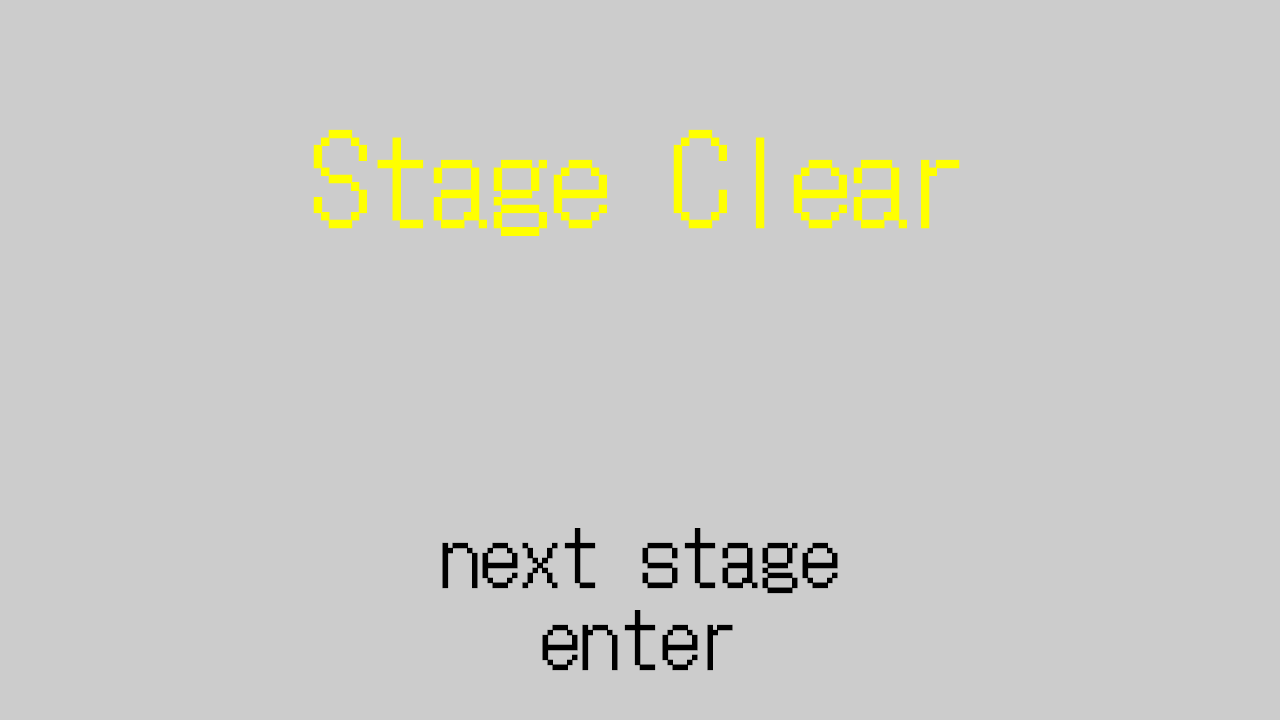
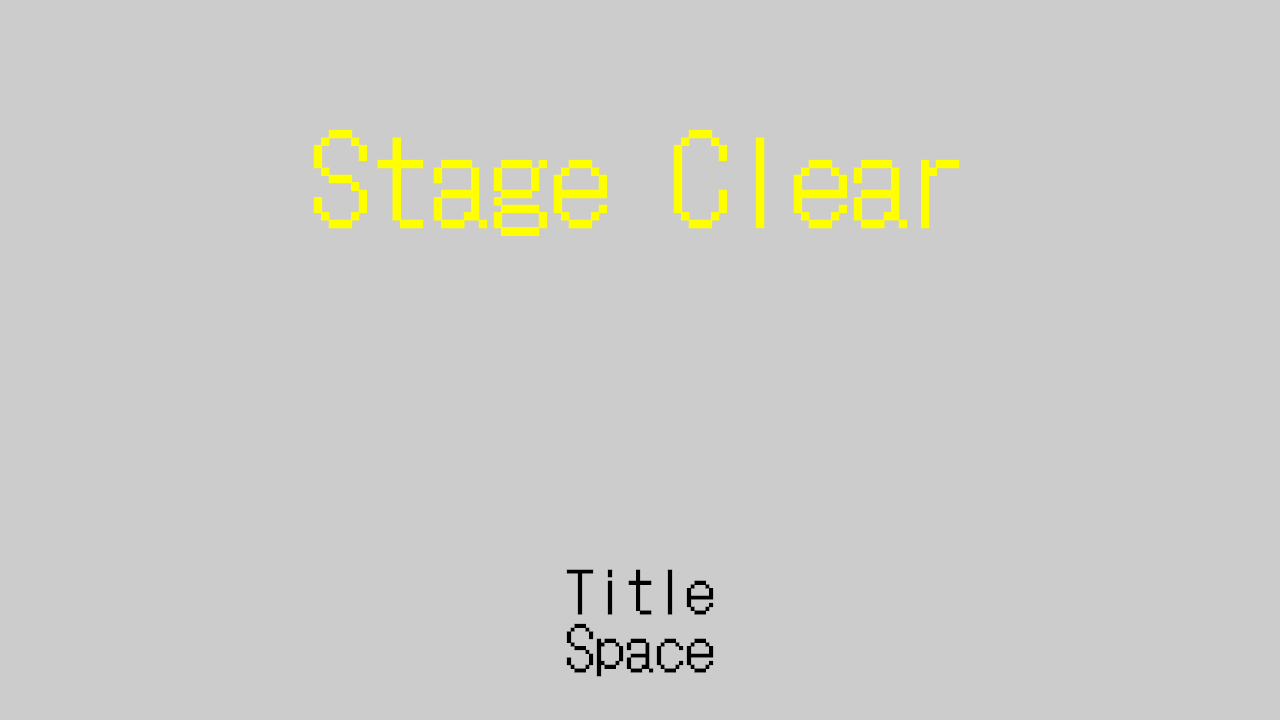
被弾演出

Changed region(s): [[0.3438, 0.7333, 0.6562, 0.9472]]

diff --git a/project/DirectXGame/engine/3d/Object3d.cpp b/project/DirectXGame/engine/3d/Object3d.cpp
@@ -16,6 +16,22 @@ void Object3d::Initialize(Object3dCommon* object3dCommon,Model*model)
 
 void Object3d::Update()
 {
+	// 点滅ロジック（フレームベース、60FPS 想定）
+	if (blinking_) {
+		// 残フレームを減らす
+		if (blinkFramesRemaining_ > 0) --blinkFramesRemaining_;
+		// 間隔カウンタ更新
+		++blinkIntervalCounter_;
+		if (blinkIntervalCounter_ >= blinkIntervalFrames_) {
+			visible_ = !visible_;
+			blinkIntervalCounter_ = 0;
+		}
+		// 点滅終了
+		if (blinkFramesRemaining_ <= 0) {
+			StopBlink();
+		}
+	}
+
 	// 行列の更新
 	//transform.rotate.y += 0.03f;
 	Matrix4x4 worldMatrix = MakeAffineMatrix(transform_.scale, transform_.rotate, transform_.translate);
@@ -33,6 +49,9 @@ void Object3d::Update()
 
 void Object3d::Draw()
 {
+	// 点滅で不可視なら何もしない
+	if (!visible_) return;
+
 	object3dCommon_->GetDxCommon()->GetCommandlist()->SetGraphicsRootConstantBufferView(1, transformationMatrixResource->GetGPUVirtualAddress());
 	object3dCommon_->GetDxCommon()->GetCommandlist()->SetGraphicsRootConstantBufferView(3, shaderResource->GetGPUVirtualAddress());
 	if (model) {
@@ -69,4 +88,25 @@ void Object3d::CreateDirectionLightData()
 void Object3d::SetModel(const std::string& filePath)
 {
 	model = ModelManager::GetInstance()->FindModel(filePath);
+}
+
+void Object3d::StartBlink(float durationSec, float intervalSec)
+{
+	// フレーム換算（60FPS を想定）
+	const int totalFrames = static_cast<int>(durationSec * 60.0f);
+	const int intervalFrames = max(1, static_cast<int>(intervalSec * 60.0f));
+
+	blinking_ = true;
+	visible_ = true;
+	blinkFramesRemaining_ = totalFrames;
+	blinkIntervalFrames_ = intervalFrames;
+	blinkIntervalCounter_ = 0;
+}
+
+void Object3d::StopBlink()
+{
+	blinking_ = false;
+	visible_ = true;
+	blinkFramesRemaining_ = 0;
+	blinkIntervalCounter_ = 0;
 }

diff --git a/project/DirectXGame/application/Scene/GameScene.cpp b/project/DirectXGame/application/Scene/GameScene.cpp
@@ -16,8 +16,8 @@ void GameScene::Initialize()
 	//loseSprite_->SetPosition({ 0.0f,0.0f, 100.0f });
 
 	gameover_ = new Sprite();
-	TextureManager::GetInstance()->LoadTexture("resources/gameclear.png");
-	gameover_->Initialize(spriteCommon_, "resources/gameclear.png");
+	TextureManager::GetInstance()->LoadTexture("resources/start.png");
+	gameover_->Initialize(spriteCommon_, "resources/start.png");
 
 
 	loseSprite_ = new Sprite();
@@ -138,7 +138,7 @@ void GameScene::Update()
 
 	phaseCommon_->Update();
 
-	if (input_->TriggerKey(DIK_1) && setPhase_ && !battlePhase_) {
+	if (input_->TriggerKey(DIK_Q) && setPhase_ && !battlePhase_) {
 		// setPhase を終了して破棄
 		setPhase_->Finalize();
 		delete setPhase_;
@@ -153,6 +153,20 @@ void GameScene::Update()
 	if (setPhase_) setPhase_->Update();
 	if (battlePhase_) battlePhase_->Update();
 
+	// battlePhase 中に敵が全員いなくなったらスプライト表示を開始する
+	if (battlePhase_ && phaseCommon_) {
+		// PhaseCommon::Update() ですでに死亡したファイターは除去されているため
+		// GetEnemyKnight() が nullptr なら敵は存在しないと判断できる
+		if (phaseCommon_->GetEnemyKnight() == nullptr) {
+			if (loseSpriteState_ == LoseSpriteState::Idle) {
+				loseSpriteState_ = LoseSpriteState::Entering;
+				loseSpriteTimer_ = 0.0f;
+				isLose_ = true;
+				//clear_->SetClear(true);
+			}
+		}
+	}
+
 }
 
 void GameScene::Draw()
@@ -165,7 +179,7 @@ void GameScene::Draw()
 	//	return;
 	//}
 	stage_->Draw();
-	//gameover_->Draw();
+	gameover_->Draw();
 	preGameScene_->Draw();
     if (isLose_ && loseSprite_) {
         loseSprite_->Draw();

diff --git a/project/DirectXGame/engine/3d/Object3d.h b/project/DirectXGame/engine/3d/Object3d.h
@@ -46,6 +46,11 @@ public:
 
 	Transform& GetTransform() { return transform_; }
 
+	// --- 点滅関連 ---
+	// durationSec: 点滅の合計時間（秒）
+	// intervalSec: 点滅の切り替え間隔（秒）
+	void StartBlink(float durationSec, float intervalSec = 0.1f);
+	void StopBlink();
 
 private:
 	Object3dCommon* object3dCommon_ = nullptr;
@@ -65,5 +70,12 @@ private:
 	DirectionalLight* directionalLightData = nullptr;
 
 	Transform transform_;
+
+	// 点滅用（フレームベース：60FPS 想定）
+	bool blinking_ = false;
+	bool visible_ = true;
+	int blinkFramesRemaining_ = 0;
+	int blinkIntervalFrames_ = 0;
+	int blinkIntervalCounter_ = 0;
 };
 

diff --git a/project/DirectXGame/application/Fighter/BaseFighter.h b/project/DirectXGame/application/Fighter/BaseFighter.h
@@ -16,6 +16,9 @@ public:
 
 	virtual Status* GetStatus() = 0;
 
+	// 被弾時のリアクション（デフォルトは何もしない）
+	virtual void OnHit() {}
+
 	void SetObject3dCommon(Object3dCommon* object3dCommon) { object3dCommon_ = object3dCommon; }
 
 	void SetGridPos(int x, int y) { stagePos_.x = x; stagePos_.y = y; }
@@ -52,6 +55,8 @@ public:
 		if (!my || !t) return;
 
 		t->hp = max(0, t->hp - my->power);
+		// 被弾リアクションを通知
+		target->OnHit();
 		// クールダウンのリセット
 		ResetAttackTimer();
 	}

diff --git a/project/DirectXGame/application/Fighter/Knight.cpp b/project/DirectXGame/application/Fighter/Knight.cpp
@@ -16,7 +16,7 @@ void Knight::Initialize()
 		100,
 		1, // moveRange（移動は現状 1 固定）
 		1, // range（攻撃距離: 隣接）
-		10 // attack
+		20 // attack
 	};
 }
 
@@ -34,4 +34,12 @@ void Knight::Update()
 void Knight::Draw()
 {
 	if (knightObject) knightObject->Draw();
+}
+
+void Knight::OnHit()
+{
+	// 点滅の長さと間隔はここで調整
+	if (knightObject) {
+		knightObject->StartBlink(0.6f, 0.08f); // 0.6秒、0.08秒間隔で点滅
+	}
 }

diff --git a/project/DirectXGame/application/Fighter/Knight.h b/project/DirectXGame/application/Fighter/Knight.h
@@ -16,6 +16,9 @@ public:
 
 	Status* GetStatus() override { return &knightStatus; }
 
+	// 被弾時のリアクションをオーバーライド
+	void OnHit() override;
+
 private:
 	Model* knightModel = nullptr;
 	Object3d* knightObject = nullptr;
